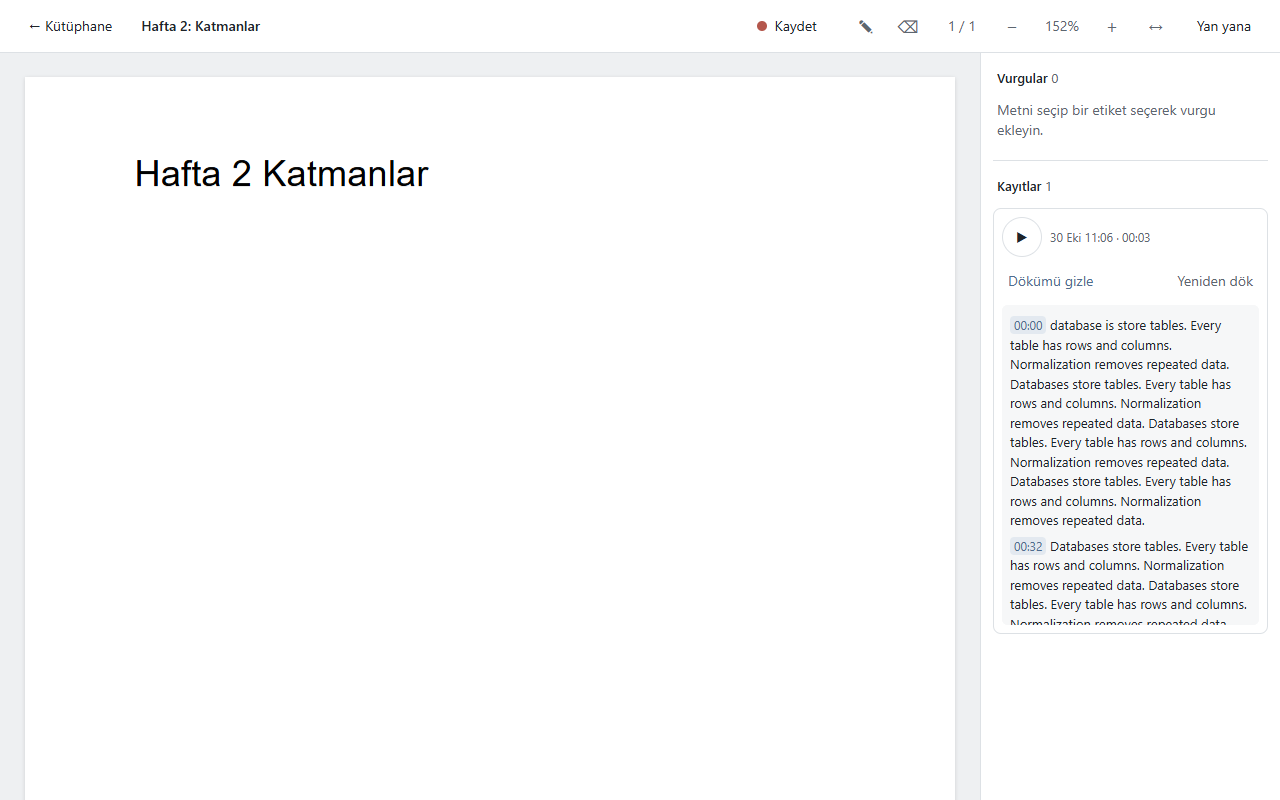
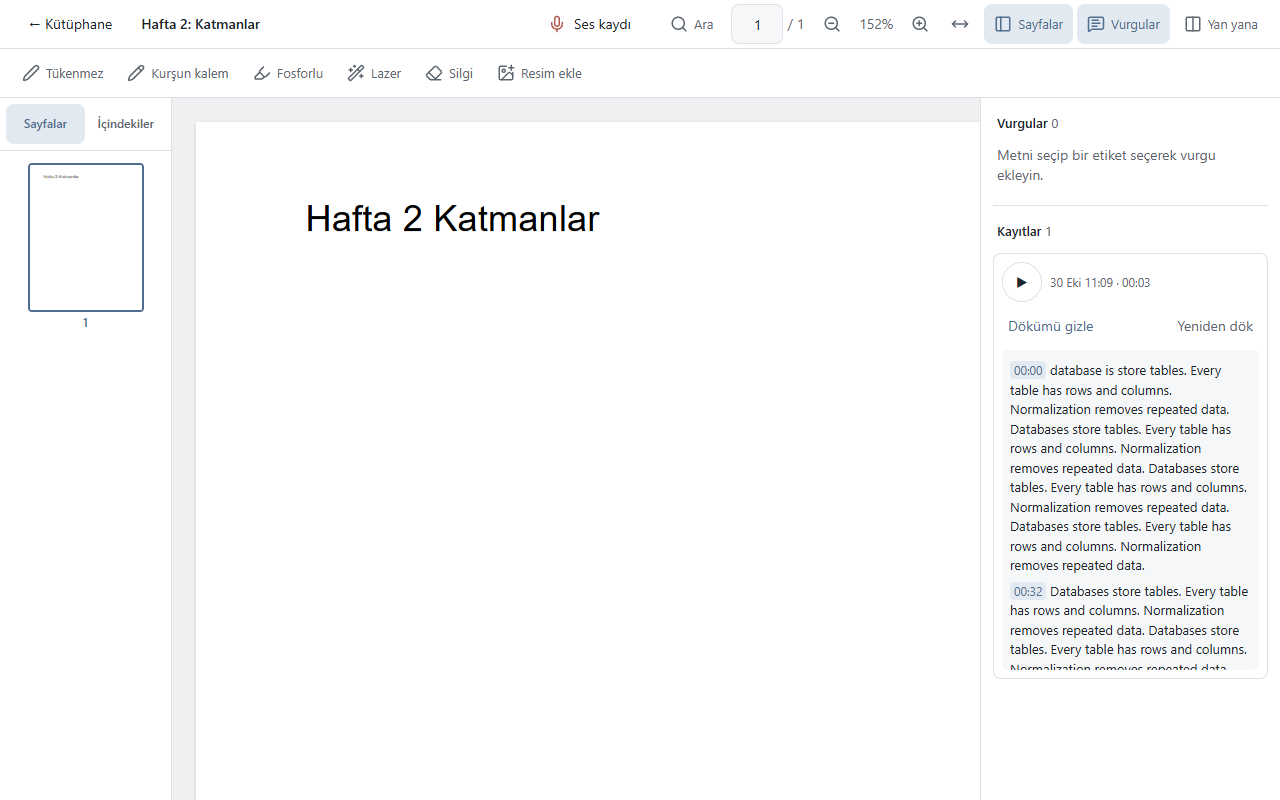
docs: Phase 3.5 done, progress and roadmap
Claude-Session: https://claude.ai/code/session_01SdYmnVAx9zwr4No128gnXv

diff --git a/PROGRESS.md b/PROGRESS.md
@@ -2,6 +2,14 @@
 
 Newest entry first. Each entry records: what was finished, the files touched, the commit, what is half done, the next step and any problems.
 
+## 2026-10-30 (3) — Phase 3.5 done: Library, Home + Plan, Reader merged into main
+- **Merged:** Library (merge after 04a1a62), Home + Plan (c5babf6), Reader (e468064). Migrations `[001 … 005, 006_ink_kinds, 007_reading, 008_plan]`. The e2e chain ends with e2e-library, e2e-home and e2e-reader.
+- **Checks on main:** svelte-check 0, tsc 0, vitest 92 passed, `cargo check` ok, `npm run e2e` (all 10 scripts) passed.
+- **Owner rule (2026-10-30):** one app for Windows, Android and iOS. Every feature must work with touch and pen (long press next to right click, 40px targets, nothing hover-only, tablet widths). Only publishing (store, signing, APK release) is postponed.
+- **Known limits:** a search word split across two text-layer pieces is counted but not highlighted; the thickness slider has 3 steps; a one-page PDF is marked Okundu on open; image insert on mobile depends on the dialog plugin `open`; nothing tried on a real tablet yet.
+- **Not verified in the real Tauri window:** the new migrations 006–008 on the owner's real DB (at v5). Run `npm run smoke:tauri` with a DB copy kept first.
+- **Next step:** ask the owner what to polish next; then the Tauri window check above.
+
 ## 2026-10-30 — Phase 3.5 reader tools (branch worktree-agent-ac58affee2bb8af17)
 - **Done:** two-row icon + text toolbar (lucide): "Ses kaydı" with mic icon, Ara (Ctrl+F), page number box (hidden `.pages` "N / M" kept for tests), zoom, Sayfalar (left panel: lazy thumbnails + pdf.js outline), Vurgular, Yan yana. Tool row: Tükenmez, Kurşun kalem, Fosforlu, Lazer (fades, not saved), Silgi, Resim ekle (Platform `pickImage`, move/resize/delete). Pen palette (10 per kind), custom colour, width slider. Search bar with count, next/prev, current hit marked and scrolled into view. All controls ≥40px, toolbar wraps at tablet width (checked at 800px, no sideways scroll).
 - **Files:** src/ui/views/ReaderView.svelte, PageNav.svelte (new), PdfPage.svelte, ImageLayer.svelte, RecordBar.svelte, RecordingList.svelte, src/ui/components/ToolButton.svelte (new), src/core/reader.ts (parsePageInput, flattenOutline, hitOnPage), tests/reader-tools.test.ts, scripts/e2e-reader.mjs (new, in `npm run e2e`), e2e-record/transcribe/touch/ai label updates.

diff --git a/ROADMAP.md b/ROADMAP.md
@@ -145,11 +145,11 @@ These four groups are independent and can run in parallel, each in its own git w
 - ✅ Touch gestures: pinch zoom and swipe between pages.
 - ✅ Whisper and Ollama are desktop-only at first. Hide them on mobile, or offer a "send to desktop" option later.
 
-### Phase 3.5: Richer UI (owner request 2026-10-30) 🟨
+### Phase 3.5: Richer UI (owner request 2026-10-30) ✅
 The owner found the UI too empty next to similar apps. Three parallel worktree agents:
-- 🟨 **Reader:** icon + text toolbar, "Ses kaydı" (renamed from "Kaydet"), page number box, search (Ctrl+F), left panel (page thumbnails, outline), pen kinds (tükenmez, kurşun kalem, fosforlu) with 10+ colours, custom colour and width, laser pen (not saved, fades), insert image from gallery (move, resize, delete). Migration 006.
-- 🟨 **Library:** cover cards, search (Ctrl+K), sort, grid/list, course chips, reading progress + "Kaldığın yerden devam et", right-click menu (rename, move to course, week, delete). Migration 007 (`last_page`, `page_count`, `last_opened_at`).
-- 🟨 **Home "Bugün" + weekly plan "Program":** start screen (continue reading, today's plan, due cards, recent highlights and recordings), week planner with repeat, drag to another day. Migration 008 (`plan_item`).
+- ✅ **Reader:** icon + text toolbar, "Ses kaydı" (renamed from "Kaydet"), page number box, search (Ctrl+F), left panel (page thumbnails, outline), pen kinds (tükenmez, kurşun kalem, fosforlu) with 10+ colours, custom colour and width, laser pen (not saved, fades), insert image from gallery (move, resize, delete). Migration 006.
+- ✅ **Library:** cover cards, search (Ctrl+K), sort, grid/list, course chips, reading progress + "Kaldığın yerden devam et", right-click menu (rename, move to course, week, delete). Migration 007 (`last_page`, `page_count`, `last_opened_at`).
+- ✅ **Home "Bugün" + weekly plan "Program":** start screen (continue reading, today's plan, due cards, recent highlights and recordings), week planner with repeat, drag to another day. Migration 008 (`plan_item`).
 
 ### Phase 4: Release 🟨
 - Code signing (free options first), installer, and an auto-update channel we control.
